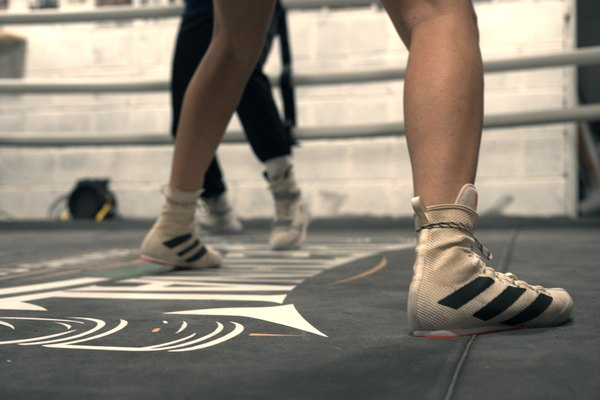
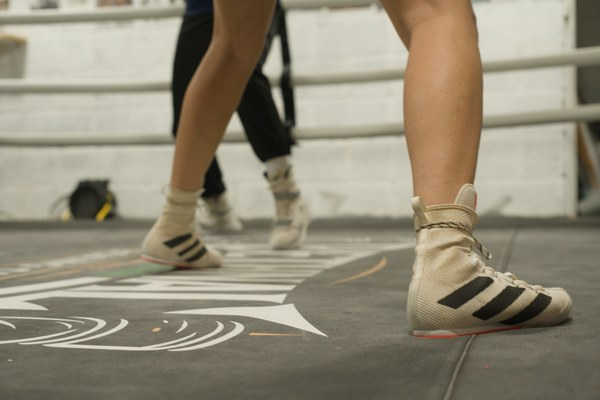
Use owner-corrected darktable exposures across website photos

diff --git a/src/content.js b/src/content.js
@@ -343,33 +343,33 @@ export const photos = {
   },
   "trainingPartners": {
     "src": "photos/ptm08449.jpg",
-    "width": 1620,
-    "height": 1080,
+    "width": 2400,
+    "height": 1600,
     "alt": "Two boxers practising pad work in the ring, with fight posters behind them",
     "caption": "Learn together"
   },
   "trainingFocus": {
     "src": "photos/ptm08472.jpg",
-    "width": 1620,
-    "height": 1080,
+    "width": 2400,
+    "height": 1600,
     "alt": "Two boxers focused on pad work in the ring",
     "caption": "Keep improving"
   },
   "trainingFootwork": {
     "src": "photos/ptm08481.jpg",
-    "width": 1620,
-    "height": 1080,
+    "width": 2400,
+    "height": 1600,
     "alt": "Boxing boots on the Bethnal Green Boxing Club ring canvas",
     "caption": "Find your feet"
   },
-  "currentGroup": {"src":"photos/current-group.jpg","width":1620,"height":1080,"alt":"The class group standing together in the Bethnal Green boxing ring after training","caption":"In it together"},
+  "currentGroup": {"src":"photos/current-group.jpg","width":2400,"height":1600,"alt":"The class group standing together in the Bethnal Green boxing ring after training","caption":"In it together"},
   "jbCurrent": {"src":"photos/jb-coaching.jpg","width":750,"height":900,"alt":"JB coaching pad work in the club ring","caption":"JB in the gym"},
   "benCurrent": {"src":"photos/ben-coaching.jpg","width":750,"height":900,"alt":"Ben coaching during a group boxing session","caption":"Ben in the gym"},
-  "trainingTogether": {"src":"photos/training-together.jpg","width":720,"height":1080,"alt":"Two training partners smiling together in the boxing ring","caption":"Part of the club","position":"50% 35%"},
+  "trainingTogether": {"src":"photos/training-together.jpg","width":1600,"height":2400,"alt":"Two training partners smiling together in the boxing ring","caption":"Part of the club","position":"50% 35%"},
   "trainingFocusPortrait": {"src":"photos/training-focus.jpg","width":1620,"height":1080,"alt":"A boxer concentrating behind their gloves during pad work","caption":"Find your focus"},
-  "trainingWithJb": {"src":"photos/training-with-jb.jpg","width":720,"height":1080,"alt":"JB holding pads for a boxer during a training session","caption":"In your corner"},
-  "trainingPads": {"src":"photos/ptm08062.jpg","width":720,"height":1080,"alt":"A man practising pad work with JB in the club ring","caption":"Working together","position":"50% 35%"},
-  "trainingGuard": {"src":"photos/ptm08112.jpg","width":720,"height":1080,"alt":"A man focused on pad work with his gloves raised in the club ring","caption":"Find your focus","position":"50% 45%"}
+  "trainingWithJb": {"src":"photos/training-with-jb.jpg","width":1600,"height":2400,"alt":"JB holding pads for a boxer during a training session","caption":"In your corner"},
+  "trainingPads": {"src":"photos/ptm08062.jpg","width":1600,"height":2400,"alt":"A man practising pad work with JB in the club ring","caption":"Working together","position":"50% 35%"},
+  "trainingGuard": {"src":"photos/ptm08112.jpg","width":1590,"height":2400,"alt":"A man focused on pad work with his gloves raised in the club ring","caption":"Find your focus","position":"50% 45%"}
 
 };
 

diff --git a/src/style.css b/src/style.css
@@ -600,8 +600,6 @@ ul, ol { margin: 0; padding: 0; list-style: none; }
 .video-toggle:hover { background: var(--paper); }
 .club .pin figcaption { background: var(--green); color: var(--black); }
 .club-photo-tall { max-width: 420px; width: 100%; justify-self: center; }
-.club-photo-brighter img { filter: brightness(1.3) contrast(.96); }
-.collage-tall img[src*="training-with-jb"] { filter: brightness(1.15); }
 
 /* Join: WhatsApp call to action */
 .join { background: var(--black); color: var(--on-dark); border-block: 4px solid var(--green); }
@@ -769,5 +767,4 @@ main:focus { outline: none; }
 
 .training-gallery-grid .pin:last-child img { aspect-ratio: 4 / 5; }
 .training-gallery-grid .pin:nth-child(2) img { aspect-ratio: 4 / 5; }
-.training-gallery-grid img[src*="ptm08062"], .meet-training-photo img { filter: brightness(1.25); }
 .meet-training-photo img { aspect-ratio: 4 / 5; object-fit: cover; }

diff --git a/src/components/Sections.jsx b/src/components/Sections.jsx
@@ -178,7 +178,7 @@ export function Club() {
       <div className="club-grid">
         {video ? <ClubVideo video={video}/> : null}
         <Photo name="clubGroup" className="club-photo-wide pin-tilt-right" sizes="(min-width: 960px) 34vw, 92vw"/>
-        <Photo name="trainingFocus" className="club-photo-tall club-photo-brighter pin-tilt-left-sm" sizes="(min-width: 960px) 24vw, 70vw"/>
+        <Photo name="trainingFocus" className="club-photo-tall pin-tilt-left-sm" sizes="(min-width: 960px) 24vw, 70vw"/>
       </div>
     </div>
   </section>;

diff --git a/docs/LAUNCH_REVIEW.md b/docs/LAUNCH_REVIEW.md
@@ -111,3 +111,11 @@ This branch does not deploy to GitHub Pages until merged into main. It does not 
 - Added two men’s training images from the saved Resolve cinematic grade: **PTM08062** in the homepage gallery and **PTM08112** beside the club introduction. The group photograph and candid women’s training image remain in the gallery.
 - Preserved the original grade in the supplied editing copies; the website adds a small brightness lift for display. Each new web image has a 600px responsive version and an accurate description.
 - Supplied a separate compact editing folder with the 16 unique photos currently displayed across Home, Club, Coaches and JB’s Story: eight cinematic PNG stills, eight largest available website JPGs, and a CSV mapping files back to website paths. The set excludes duplicate thumbnails, unused images, logos, videos and the full RAW shoot. Sources are unchanged.
+
+## Owner exposure corrections and SSD organisation — 22 October
+
+- Exported the saved darktable RAW edits for the eight current training photographs: PTM08062, PTM08082, PTM08112, PTM08321, PTM08449, PTM08472, PTM08481 and PTM08631. Chose the latest edited version per image across the original-shoot and selected-33 film rolls; verified each XMP history end against darktable’s saved database history before export.
+- Replaced their website JPEGs and responsive 600px versions. Larger files are capped at 2400px on the longest side, with matching intrinsic image dimensions. Removed the extra CSS brightness/contrast adjustments so the owner’s exported exposures are displayed directly.
+- Full-resolution corrected JPEGs and the complete 16-photo website export set are saved on Extreme Pro under `Boxing Gym Edits/Exports/Photos/Exposure Corrected`.
+- Camera photos/videos, selected RAWs, cinematic still exports, previews, earlier renders and local collected media now have organised SSD locations. Old paths remain as compatibility links for darktable/Resolve and existing documents. Every cross-volume media copy was verified before its local source was removed.
+- Website source code, dependencies and the build’s small working media copies remain local pending explicit approval to move the entire website working folder; automatic approval review rejected moving code/dependencies under the media-only authorisation.
